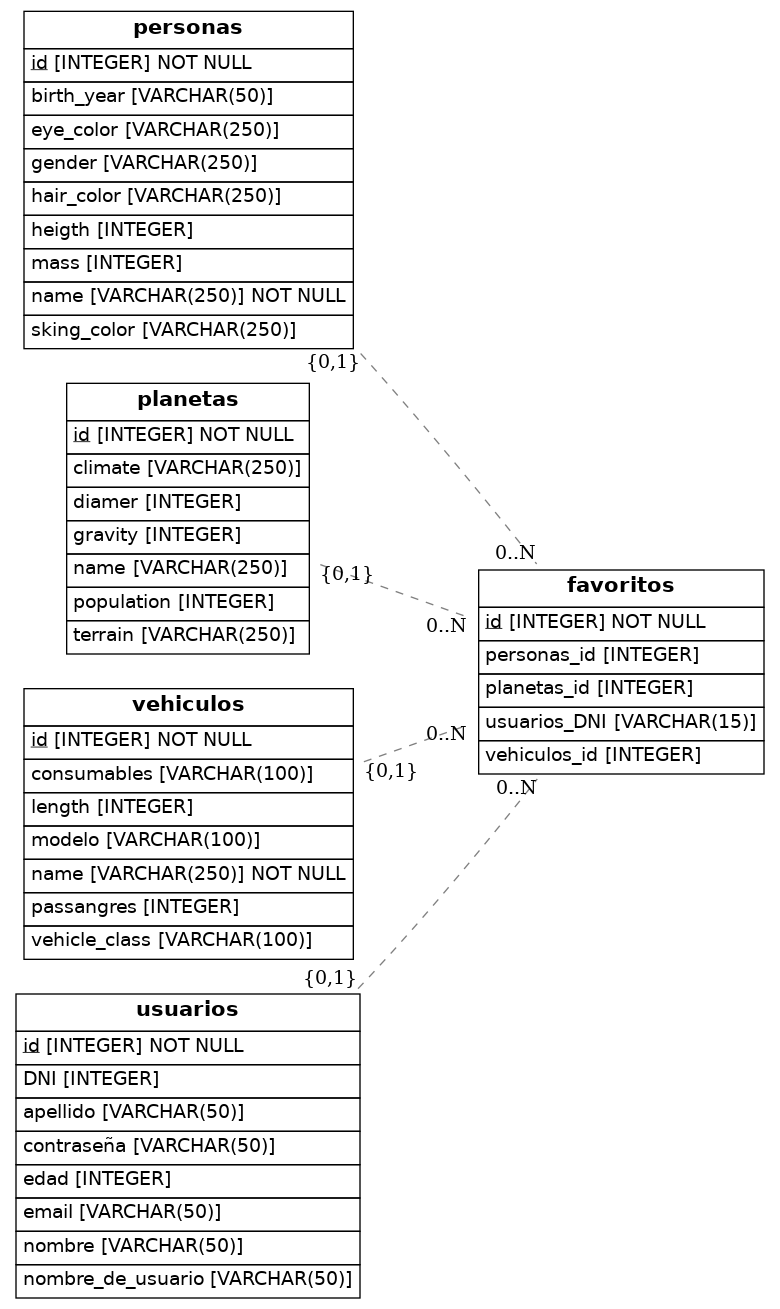
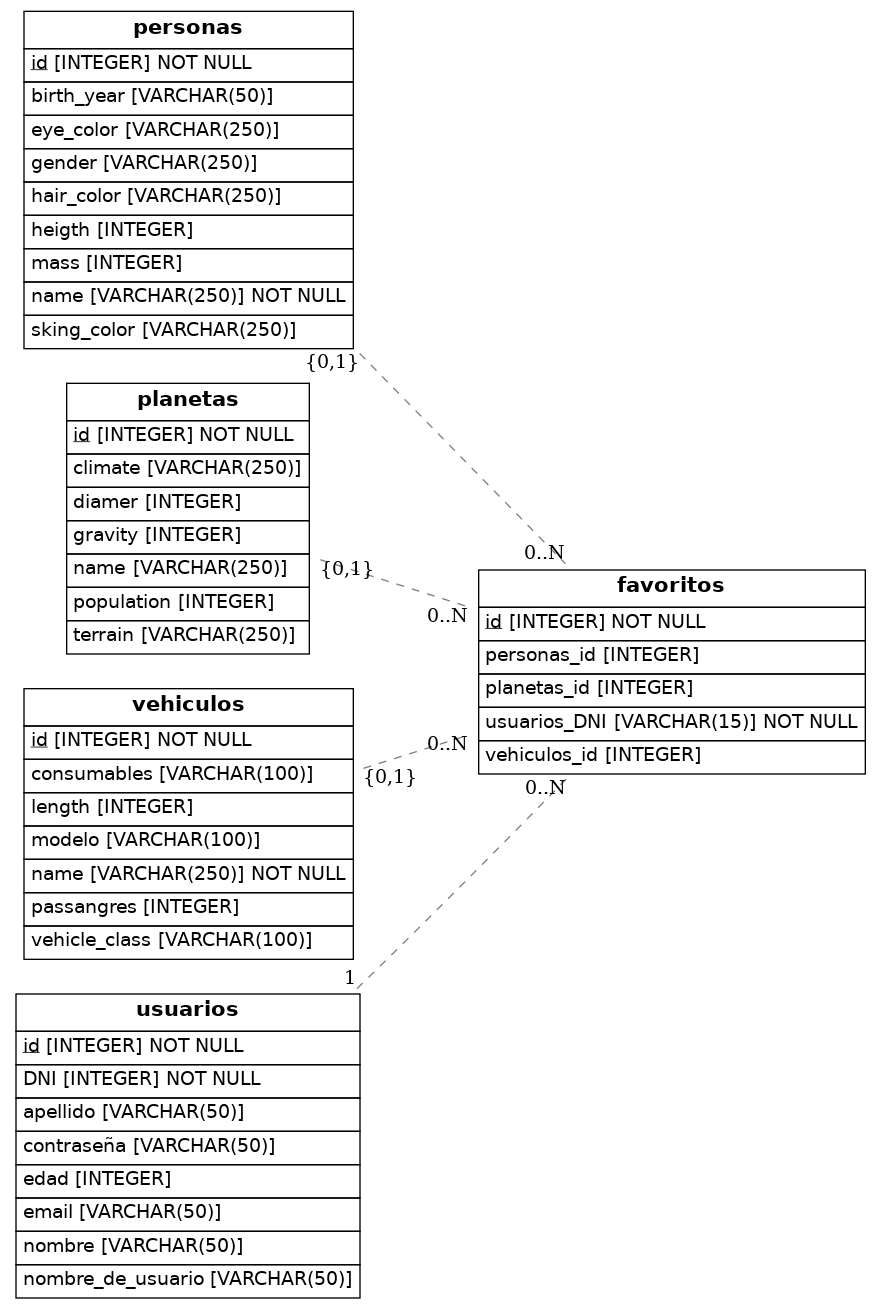
DNI nulo=false

Changed region(s): [[0.0, 0.5195, 0.4923, 1.0], [0.0, 0.0, 0.4615, 0.4889], [0.4923, 0.3972, 0.9846, 0.6112]]

diff --git a/src/models.py b/src/models.py
@@ -63,7 +63,7 @@ class Usuarios(Base):
     contraseña=Column(String(50))
     email= Column(String(50))
     edad=Column(Integer)
-    DNI =Column(Integer)
+    DNI =Column(Integer, nullable=False)
 
     def to_dict(self):
         return {}
@@ -76,7 +76,7 @@ class Favoritos(Base):
     personas_id = Column(Integer, ForeignKey('personas.id'))
     planetas_id = Column(Integer, ForeignKey('planetas.id'))
     vehiculos_id = Column(Integer, ForeignKey('vehiculos.id'))
-    usuarios_DNI = Column(String(15), ForeignKey('usuarios.DNI'))
+    usuarios_DNI = Column(String(15), ForeignKey('usuarios.DNI'), nullable=False )
 
     def to_dict(self):
         return {}
